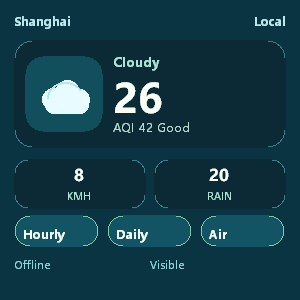
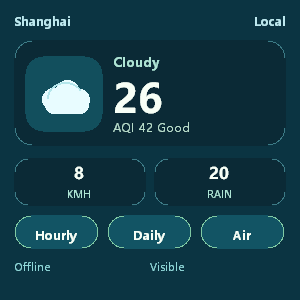
Polish watch app card alignment

diff --git a/tools/templates/apps/clock/styles/app.css b/tools/templates/apps/clock/styles/app.css
@@ -29,8 +29,8 @@ body {
 
 .time-card {
   box-sizing: border-box;
-  height: 112px;
-  padding: 13px 14px;
+  height: 106px;
+  padding: 12px 14px;
   border-radius: 28px;
   background: #111923;
 }
@@ -44,7 +44,7 @@ body {
 #time {
   display: block;
   margin-top: 4px;
-  font-size: 44px;
+  font-size: 42px;
   line-height: 1;
 }
 
@@ -59,14 +59,14 @@ body {
   display: grid;
   grid-template-columns: repeat(2, 1fr);
   gap: 8px;
-  margin: 8px 0;
+  margin: 12px 0 10px;
 }
 
 .metrics div {
   box-sizing: border-box;
-  height: 56px;
-  padding: 8px 12px;
-  border-radius: 22px;
+  height: 44px;
+  padding: 4px 12px;
+  border-radius: 16px;
   background: #12161d;
 }
 
@@ -81,8 +81,8 @@ body {
 }
 
 .metrics strong {
-  margin-top: 4px;
-  font-size: 23px;
+  margin-top: 1px;
+  font-size: 18px;
 }
 
 .actions {

diff --git a/samples/apps/packages/watch_weather/styles/app.css b/samples/apps/packages/watch_weather/styles/app.css
@@ -35,8 +35,8 @@ body {
   display: grid;
   grid-template-columns: 78px 1fr;
   gap: 10px;
-  height: 108px;
-  margin-bottom: 11px;
+  height: 106px;
+  margin-bottom: 12px;
   padding: 10px;
   border: 1px solid #3d7b86;
   border-radius: 18px;
@@ -93,8 +93,8 @@ body {
   display: grid;
   grid-template-columns: repeat(2, 1fr);
   gap: 8px;
-  height: 40px;
-  margin-bottom: 16px;
+  height: 38px;
+  margin-bottom: 19px;
 }
 
 .stats div {
@@ -102,7 +102,7 @@ body {
   border: 1px solid #3d7b86;
   border-radius: 14px;
   background: #0b2a36;
-  padding: 3px 4px;
+  padding: 2px 4px;
   text-align: center;
 }
 
@@ -129,14 +129,15 @@ body {
 
 .tile {
   box-sizing: border-box;
-  height: 32px;
+  height: 34px;
   border: 1px solid #7fc9a3;
-  border-radius: 16px;
+  border-radius: 17px;
   background: #125464;
   color: #f7fff6;
   font-size: 12px;
   font-weight: 700;
-  line-height: 30px;
+  line-height: 31px;
+  text-align: center;
 }
 
 .tile:active,

diff --git a/tools/templates/apps/calculator/styles/app.css b/tools/templates/apps/calculator/styles/app.css
@@ -19,7 +19,7 @@ body {
   box-sizing: border-box;
   height: 62px;
   margin-bottom: 7px;
-  padding: 8px 12px;
+  padding: 9px 12px 7px;
   border-radius: 24px;
   background: #101820;
 }
@@ -34,13 +34,14 @@ input {
   box-sizing: border-box;
   display: block;
   width: 244px;
-  height: 32px;
-  margin: 0;
+  height: 28px;
+  margin: 3px 0 0;
   padding: 0;
   border: 0;
   background: #101820;
   color: #ffffff;
-  font-size: 32px;
+  font-size: 30px;
+  line-height: 28px;
   text-align: right;
 }
 

diff --git a/src/render_core/tests/layer_tree_tests.cpp b/src/render_core/tests/layer_tree_tests.cpp
@@ -438,6 +438,22 @@ void grid_item_auto_width_reflows_centered_text() {
     check(first_text.x > first_button.x + 20, "grid button text is centered after stretch");
 }
 
+void text_input_respects_text_align() {
+    auto pipeline = build_pipeline("<body><input class='display' value='42'></body>",
+                                   ".display { width: 120px; height: 32px; padding: 0; "
+                                   "border: 0; text-align: right; font-size: 20px; }");
+
+    LayerTreeBuilder layer_tree_builder;
+    DisplayList flattened = layer_tree_builder.flatten(*pipeline.layer_tree);
+    for (const DisplayCommand& command : flattened) {
+        if (command.type == DisplayCommandType::Text && command.text == "42") {
+            check(command.text_align == TextCommandAlign::End, "input text follows text-align right");
+            return;
+        }
+    }
+    check(false, "input text command exists");
+}
+
 void flex_wrap_places_items_on_new_lines() {
     auto pipeline = build_pipeline(
         "<body><section class='row'><div class='item a'>A</div><div class='item b'>B</div><div class='item c'>C</div></section></body>",
@@ -514,6 +530,7 @@ int main() {
         fixed_grid_places_description_list_in_columns();
         unbreakable_symbol_stays_single_line();
         grid_item_auto_width_reflows_centered_text();
+        text_input_respects_text_align();
         flex_wrap_places_items_on_new_lines();
         image_element_emits_image_display_command_when_surface_resolves();
         layer_builder_respects_layer_and_display_command_budgets();

diff --git a/src/render_core/layer_tree.cpp b/src/render_core/layer_tree.cpp
@@ -530,7 +530,7 @@ void paint_form_control(const LayoutBox& box, DisplayList& display_list) {
                   text,
                   box.style.font_size,
                   box.style.font_weight,
-                  TextCommandAlign::Start,
+                  text_command_align(box.style.text_align),
                   true);
         if (state.kind == FormControlKind::Select) {
             push_text(display_list,